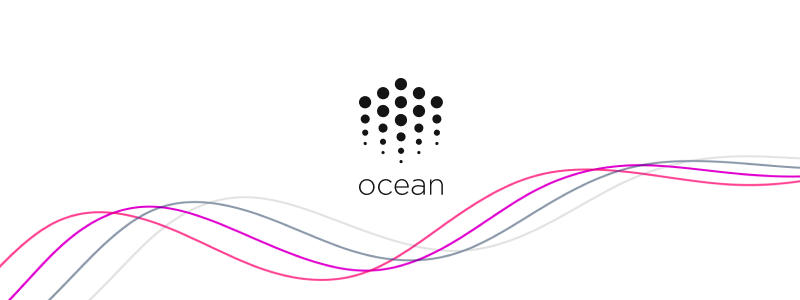
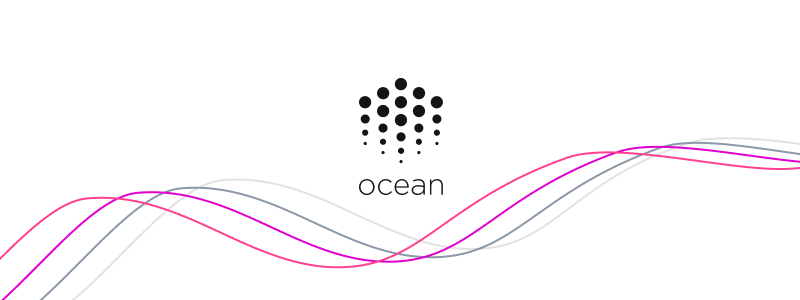
add waves assets

diff --git a/github/README.md b/github/README.md
@@ -2,16 +2,16 @@
 
 Use the repo banner to decorate an official Ocean Protocol repository's readme file and follow those points to open source a repo:
 
-* add repo banner
-* add LICENSE file, add license block at end of readme
-* add badges, like a Travis badge linking to the project on Travis. If repo has been published to package registries, add their badge too. You can use shields.io to get them all from one place
+- add repo banner
+- add LICENSE file, add license block at end of readme
+- add badges, like a Travis badge linking to the project on Travis. If repo has been published to package registries, add their badge too. You can use shields.io to get them all from one place
 
 ## Basic readme structure
 
-Always start a project's readme file like so, note how the banner is linked to our landing page:
+Always start a project's readme file like so, note how the banner is linked to our landing page and sourced remotely from the `art` repo:
 
 ```md
-[![banner](repo-banner@2x.png)](https://oceanprotocol.com)
+[![banner](https://raw.githubusercontent.com/oceanprotocol/art/master/github/repo-banner%402x.png)](https://oceanprotocol.com)
 
 <h1 align="center">repo-name</h1>
 
@@ -21,7 +21,7 @@ Always start a project's readme file like so, note how the banner is linked to o
 ```
 
 Which will return:
-[![banner](repo-banner@2x.png)](https://oceanprotocol.com)
+[![banner](https://raw.githubusercontent.com/oceanprotocol/art/master/github/repo-banner%402x.png)](https://oceanprotocol.com)
 
 <h1 align="center">repo-name</h1>
 
@@ -30,28 +30,3 @@ Which will return:
 [![npm](https://img.shields.io/npm/v/@oceanprotocol/art.svg)](https://www.npmjs.com/package/@oceanprotocol/art)
 
 The tagline in there should always be the same as the repo description on GitHub. With tagline, try to summarize what a user can do with the repo. And most importantly: pick an emoji for your project and put it in front of the tagline.
-
-### Table of Contents
-
-As soon as you have more than 3 sections in your readme, add a Table of Contents above all content. [toctoc](https://github.com/n1k0/toctoc) is your friend:
-
-1. add this block to yopur readme after the project intro:
-
-    ```md
-    ## Table of Contents
-    ---
-    ```
-
-2. run toctoc:
-
-    ```bash
-    toctoc README.md -w
-    ```
-
-And make sure to update TOC as you update your readme too.
-
-### Usage
-
-Then immediately start with usage instructions. Goal should be for any dev to be able to get the project running within 1 min. So make it nicely copy/pasteable, don't just say "clone the repo and install dependencies". Write it out, e.g. see in [site repo](https://github.com/oceanprotocol/site/blob/master/README.md#development)
-
-Those first usage instructions should be as short as possible so this implies you have to setup everything in your project to make that possible. E.g. for front end projects everything should be handled behind a simple npm start script.

diff --git a/waves/README.md b/waves/README.md
@@ -1,0 +1,11 @@
+# The Ocean Protocol Waves
+
+Created and designed entirely in code as SVG paths, animated with CSS by [D3.js](https://d3js.org).
+
+The original wave used on our website can be found on CodePen, which you can use to create your own screenshots of the waves in other variations.
+
+- [CodePen: Ocean Protocol Waves](https://codepen.io/kremalicious/pen/vYLNWXe)
+
+The assets in this repo are a recreation of those code-generated waves.
+
+<img src="waves.svg" />

diff --git a/README.md b/README.md
@@ -19,6 +19,7 @@ All assets in this repo can also be viewed and downloaded from [oceanprotocol.co
 
 - [Logo](logo/)
 - [Banner](banner/)
+- [Waves](waves/)
 - [Creatures](creatures/)
 - [GitHub](github/)
 
